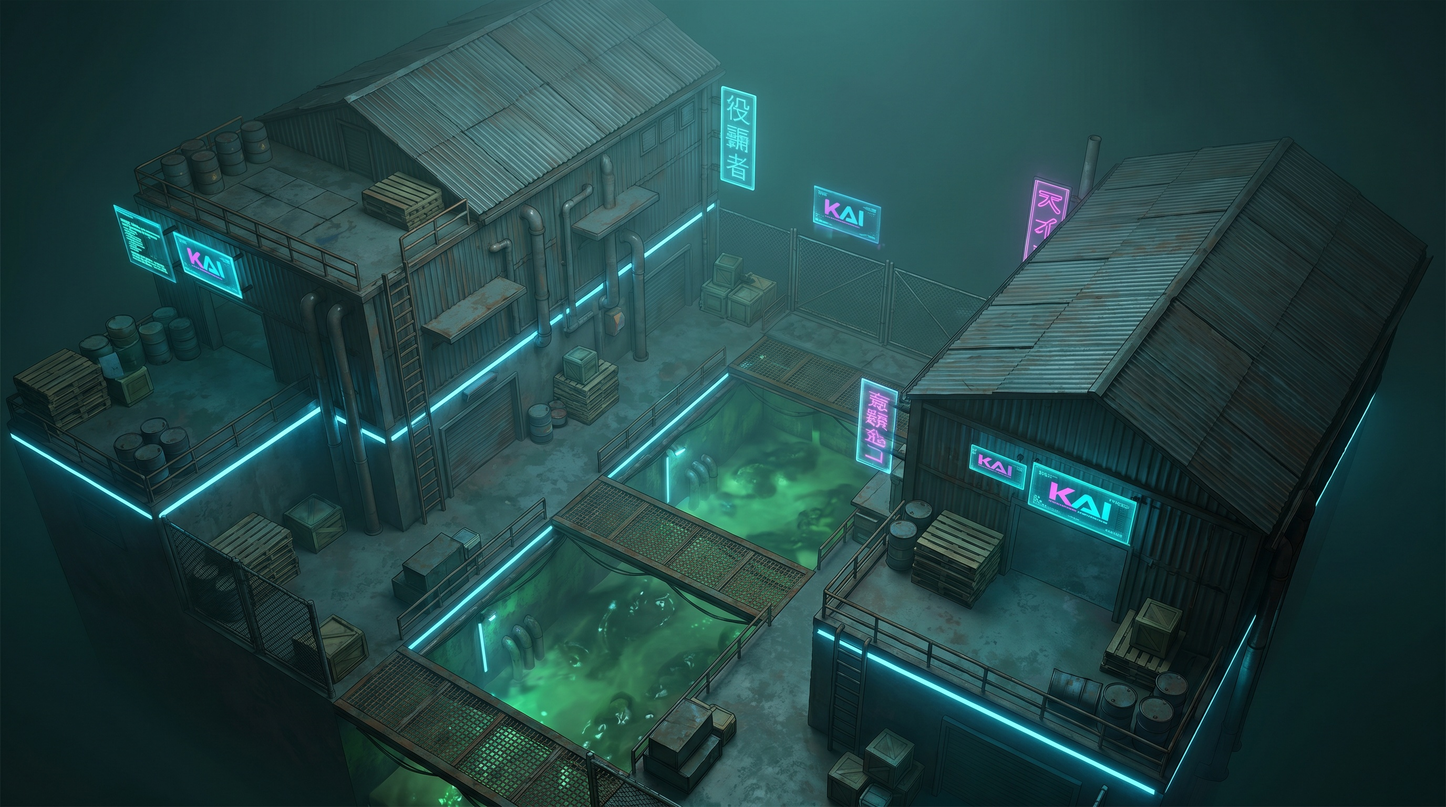
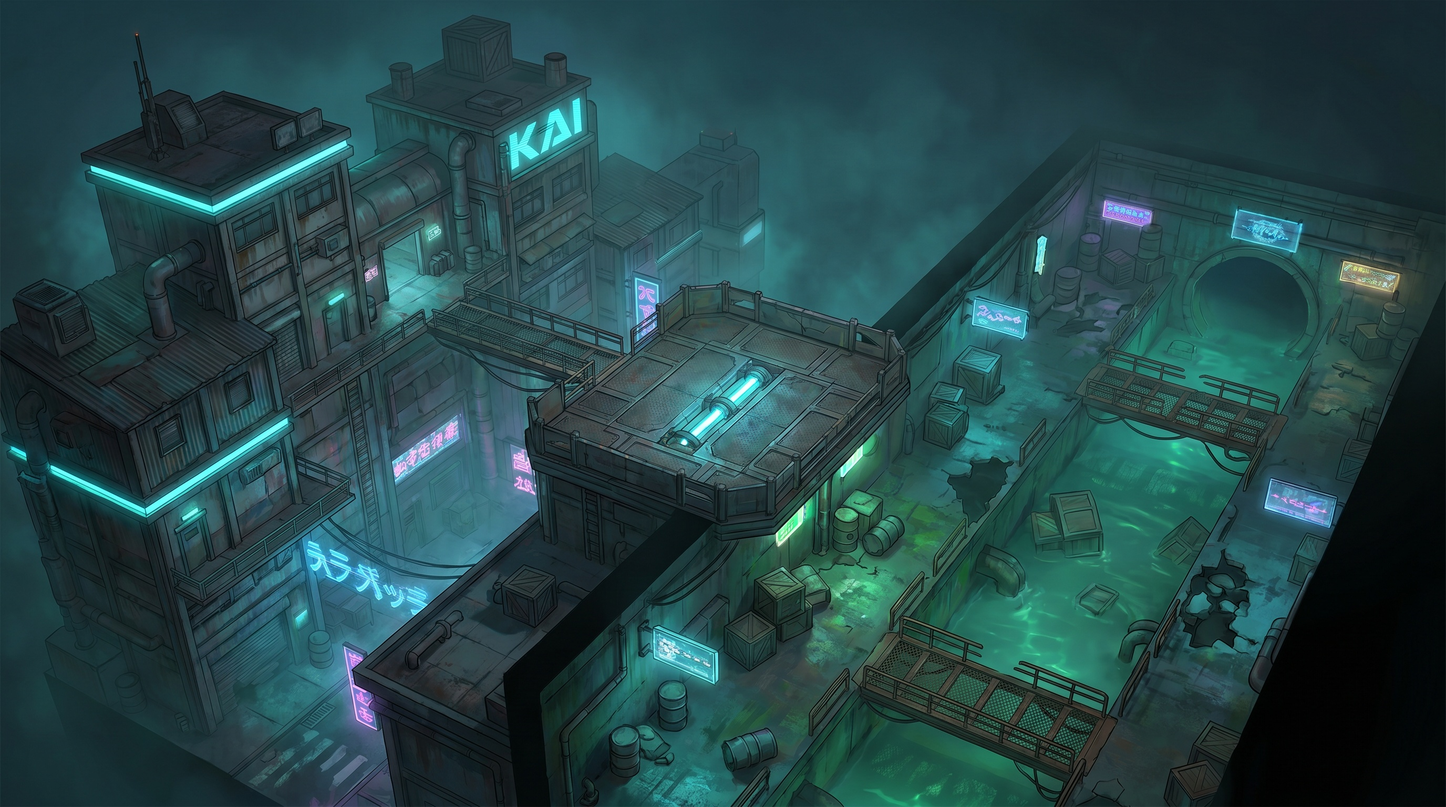
refine(bladekai): first map asymmetric + dynamic (anti static-mirror)

diff --git a/dev/mappa.html b/dev/mappa.html
@@ -38,7 +38,7 @@
   <div class="phero-in">
     <div class="crumbs"><a href="index.html">Roadmap</a> › La Prima Mappa</div>
     <h1>La Prima Mappa <span class="jp">舞台</span></h1>
-    <p class="lede"><b>NEDEN 改</b> — omaggio a <b>Neden-1</b>, la primissima mappa di S4 League (il DM dei nuovi). Stesse <b>meccaniche</b>: magazzini + fogna, <b>box distruttibili</b>, <b>tetti accessibili a tutti</b>, salti-skill e spawn distribuiti. Aperta per chi inizia, profonda per chi padroneggia il <a href="movement.html" style="color:#fff">movimento</a>. È il nostro <b>v0 (feel)</b> e la <b>prima mappa giocabile (v0.5)</b>.</p>
+    <p class="lede"><b>NEDEN 改</b> — omaggio a <b>Neden-1</b>, la primissima mappa di S4 League (il DM dei nuovi). Stesse <b>meccaniche</b>: magazzini + fogna, <b>box distruttibili</b>, <b>tetti accessibili a tutti</b>, salti-skill e spawn distribuiti. Piccola e DM (è un testbed del feel), ma <b>asimmetrica</b> — Officine ≠ Canale — e <b>dinamica</b> (cover che si rompe, tetti scalabili): non un'arena a specchio. È il nostro <b>v0 (feel)</b> e la <b>prima mappa giocabile (v0.5)</b>.</p>
   </div>
 </div>
 
@@ -56,7 +56,11 @@
 
 <section id="layout">
   <div class="sec-head"><span class="sec-num">01</span><h2>Layout — le Zone</h2><span class="jp">構造</span></div>
-  <p class="sec-sub">La pianta di Neden-1: <b>due magazzini</b> + un <b>canale-fogna con ponti</b>, campi rialzati nel mezzo, tetti sopra tutto. <b>Asimmetria ambientale</b> bilanciata dagli spawn distribuiti — non dalla simmetria.</p>
+  <p class="sec-sub"><b>Niente specchio.</b> Due metà che giocano <b>diverse</b>: il <b>Lato Officine</b> (alto, denso, verticale) e il <b>Lato Canale</b> (basso, aperto, ambush), saldate da campi rialzati nel mezzo. Fair non per simmetria ma per <b>spawn distribuiti</b> + entrambi i lati viable — come Neden-1.</p>
+  <div class="grid g2" style="margin-bottom:18px">
+    <div class="card reveal" style="--c:var(--kai)"><div class="role" style="color:var(--kai)">Lato A · verticale</div><h3>Le Officine</h3><p>Magazzini multipiano, interni stretti, <b>tetti alti</b> scalabili a wall-jump. Si gioca <b>su più livelli</b>: close dentro, sniper/peek sopra. Denso, claustrofobico, premia chi sale.</p></div>
+    <div class="card reveal" style="--c:var(--green)"><div class="role" style="color:var(--green)">Lato B · orizzontale</div><h3>Il Canale</h3><p>Fogna bassa e aperta, <b>ponti e scrap</b>, linee di tiro lunghe e flank dal basso. Si gioca <b>in piano</b>: spacing, ambush, kiting. Tutt'altro ritmo dalle Officine.</p></div>
+  </div>
   <div class="tbl-wrap reveal"><table class="tbl">
     <tr><th>Zona</th><th>Range</th><th>Arma/classe di casa</th><th>Ruolo nel design</th></tr>
     <tr><td><strong>I Magazzini</strong> (×2)</td><td><span class="pill t-cyan">close</span></td><td>Spada · SMG · Shotgun · Kenshi</td><td>interni stretti: ci entri rompendo finestre/box o calandoti dal tetto. Mischia e spray ravvicinato</td></tr>
@@ -65,7 +69,7 @@
     <tr><td><strong>I Tetti</strong></td><td><span class="pill t-red">long</span></td><td>Sniper · Beam/Arco · Phantom</td><td><b>accessibili a tutti</b> via wall-jump: dominio sniper e counter-sniper, ma contendibile</td></tr>
     <tr><td><strong>Spawn distribuiti</strong> (×8-9)</td><td>—</td><td>—</td><td>sparsi su punti e altezze diverse (modello Neden-1): <b>anti spawn-camp</b> senza bisogno di simmetria</td></tr>
   </table></div>
-  <div class="note reveal" style="margin-top:16px"><b>Tre livelli —</b> <b>Fogna</b> (−1, ambush) · <b>magazzini/campi</b> (0, il grosso del fight) · <b>tetti</b> (+1, long &amp; flank). Chi sta in alto vede, chi sta sotto sorprende: la verticalità è una <b>risorsa contesa</b>.</div>
+  <div class="note reveal" style="margin-top:16px"><b>Tre livelli —</b> <b>Fogna</b> (−1, ambush) · <b>magazzini/campi</b> (0, il grosso del fight) · <b>tetti</b> (+1, long &amp; flank). Chi sta in alto vede, chi sta sotto sorprende: la verticalità è una <b>risorsa contesa</b>. E <b>niente è fermo</b>: la cover si rompe sotto il fuoco (sez. 02) → gli angoli cambiano round dopo round. Piccola e DM sì, <b>statica no</b>.</div>
 </section>
 
 <section id="meccaniche">
